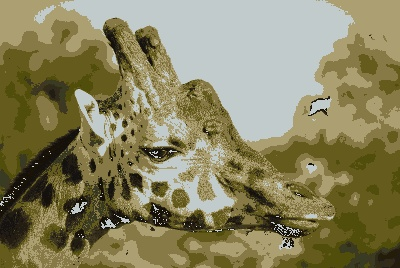
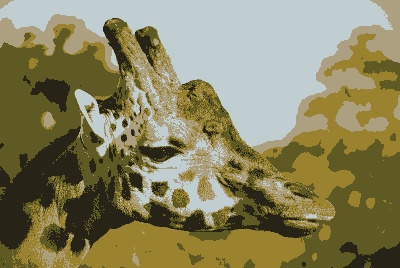
creating image segmentation repository and resolving some issues

diff --git a/ImageSegmentation/main.py b/ImageSegmentation/main.py
@@ -5,7 +5,7 @@ import cv2
 args_parser=argparse.ArgumentParser()
 args_parser.add_argument("-i","--image",type=str,required=True,help="The path to an image")
 args_parser.add_argument("-k","--clusters",type=int,default=10,help="The number of clusters")
-args_parser.add_argument("-n","--iterations",type=str,default=20,help="The number of iterations")
+args_parser.add_argument("-n","--iterations",type=int,default=20,help="The number of iterations")
 args_parser.add_argument("-o","--output",type=str,default="output.jpg",help="The output image path")
 args=vars(args_parser.parse_args())
 

diff --git a/ImageSegmentation/segmentation.py b/ImageSegmentation/segmentation.py
@@ -27,7 +27,7 @@ class Segmentation:
         """
         img=cv2.imread(image)
         flattened_img=np.reshape(img,(-1,3))
-        clusters=flattened_img[np.random.choice(len(flattened_img),self.k)]
+        clusters=flattened_img[np.random.choice(len(flattened_img),self.k)].astype(np.float32)
     
         for _ in range(self.iterations):
             
